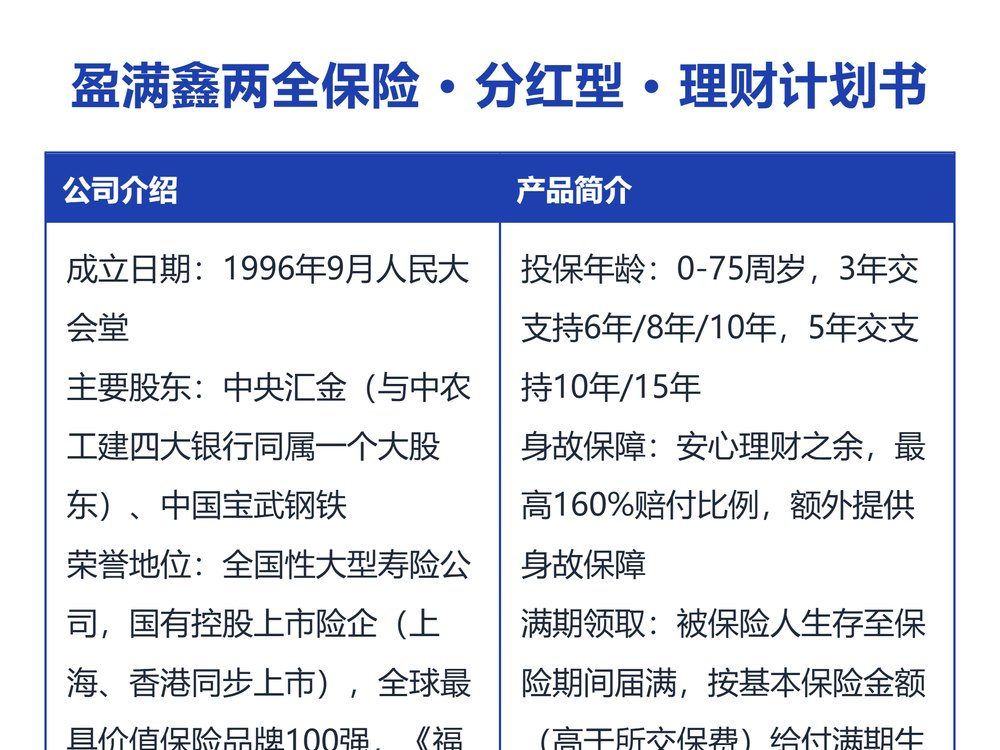
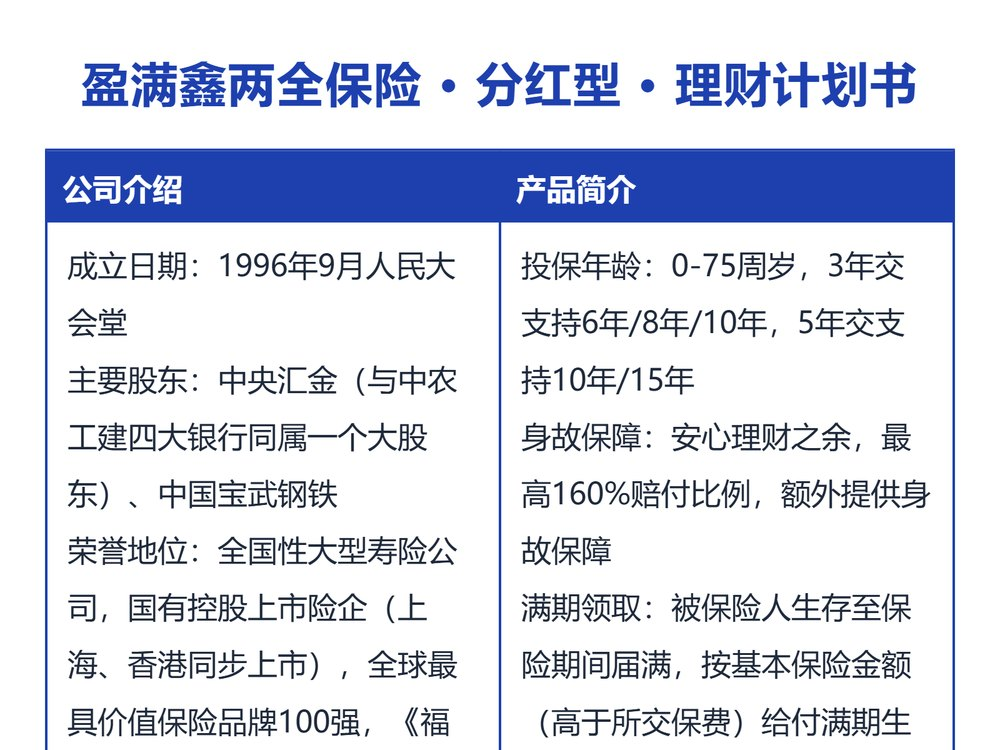
V3.0 盈满鑫导出图回调：宽度改回800px/输出1600px，字号整体下调2px，避免表格数字换行

diff --git a/calculator-yingmanxin.html b/calculator-yingmanxin.html
@@ -154,39 +154,39 @@ body.capturing .table-scroll{overflow-x:visible !important;}
 .combo-hl .cv{color:var(--primary);font-weight:800;font-size:18px;}
 
 /* ============ 独立隐藏导出模板（高清 PNG，不直接截取网页）============ */
-#exportRoot{position:absolute;left:-9999px;top:0;width:900px;background:#fff;z-index:-1;pointer-events:none;}
-.exp-wrap{width:900px;box-sizing:border-box;background:#fff;color:#1E293B;font-family:"PingFang SC","Microsoft YaHei",sans-serif;padding:40px;line-height:1.55;}
-.exp-title{text-align:center;font-size:44px;font-weight:800;color:var(--primary);margin:0 0 28px;letter-spacing:1px;}
-.exp-row2{display:flex;border:2px solid var(--primary);margin-bottom:18px;box-sizing:border-box;}
-.exp-box{border:2px solid var(--primary);background:#fff;padding:16px 18px;margin-bottom:18px;box-sizing:border-box;}
+#exportRoot{position:absolute;left:-9999px;top:0;width:800px;background:#fff;z-index:-1;pointer-events:none;}
+.exp-wrap{width:800px;box-sizing:border-box;background:#fff;color:#1E293B;font-family:"PingFang SC","Microsoft YaHei",sans-serif;padding:36px;line-height:1.55;}
+.exp-title{text-align:center;font-size:38px;font-weight:800;color:var(--primary);margin:0 0 24px;letter-spacing:1px;}
+.exp-row2{display:flex;border:2px solid var(--primary);margin-bottom:16px;box-sizing:border-box;}
+.exp-box{border:2px solid var(--primary);background:#fff;padding:14px 16px;margin-bottom:16px;box-sizing:border-box;}
 .exp-row2 > .exp-box{flex:1;border:0;margin-bottom:0;}
 .exp-row2 > .exp-box:first-child{border-right:2px solid var(--primary);}
-.exp-h{background:var(--primary);color:#fff;font-size:26px;font-weight:700;padding:11px 14px;margin:-16px -18px 12px;box-sizing:border-box;}
-.exp-b{font-size:28px;line-height:1.9;color:#1E293B;}
-.exp-info{width:100%;border-collapse:collapse;table-layout:fixed;font-size:26px;border:2px solid var(--primary);box-sizing:border-box;}
-.exp-info th,.exp-info td{border:1px solid var(--primary);padding:8px 6px;text-align:center;box-sizing:border-box;font-weight:600;color:#1E293B;}
+.exp-h{background:var(--primary);color:#fff;font-size:24px;font-weight:700;padding:10px 12px;margin:-14px -16px 10px;box-sizing:border-box;}
+.exp-b{font-size:24px;line-height:1.9;color:#1E293B;}
+.exp-info{width:100%;border-collapse:collapse;table-layout:fixed;font-size:22px;border:2px solid var(--primary);box-sizing:border-box;}
+.exp-info th,.exp-info td{border:1px solid var(--primary);padding:7px 5px;text-align:center;box-sizing:border-box;font-weight:600;color:#1E293B;}
 .exp-info th{background:var(--primary-bg);color:var(--primary);font-weight:700;}
-.exp-stats{display:flex;gap:12px;margin-top:12px;flex-wrap:wrap;}
-.exp-stats span{background:var(--primary-bg);border:1px solid #BFDBFE;color:var(--primary);padding:8px 16px;font-weight:700;font-size:24px;border-radius:6px;}
-.exp-main,.exp-dep{width:100%;border-collapse:collapse;table-layout:fixed;font-size:28px;box-sizing:border-box;margin-top:2px;}
-.exp-main th,.exp-main td,.exp-dep th,.exp-dep td{border:1px solid var(--primary);padding:12px 5px;text-align:center;vertical-align:middle;box-sizing:border-box;font-weight:600;color:#1E293B;}
+.exp-stats{display:flex;gap:10px;margin-top:10px;flex-wrap:wrap;}
+.exp-stats span{background:var(--primary-bg);border:1px solid #BFDBFE;color:var(--primary);padding:7px 14px;font-weight:700;font-size:22px;border-radius:6px;}
+.exp-main,.exp-dep{width:100%;border-collapse:collapse;table-layout:fixed;font-size:24px;box-sizing:border-box;margin-top:2px;}
+.exp-main th,.exp-main td,.exp-dep th,.exp-dep td{border:1px solid var(--primary);padding:10px 4px;text-align:center;vertical-align:middle;box-sizing:border-box;font-weight:600;color:#1E293B;}
 .exp-main th,.exp-dep th{background:var(--primary);color:#fff;font-weight:700;}
 .exp-main thead th{line-height:1.25;}
 .exp-main tbody tr:nth-child(even){background:#F0F9FF;}
 .exp-main .exp-total{background:#DBEAFE;}
-.exp-main .exp-reserve{background:#DBEAFE;color:#475569;font-weight:800;text-align:center;vertical-align:middle;font-size:28px;letter-spacing:1px;}
-.exp-dep tfoot td{border:1px solid var(--primary);padding:8px 5px;box-sizing:border-box;}
+.exp-main .exp-reserve{background:#DBEAFE;color:#475569;font-weight:800;text-align:center;vertical-align:middle;font-size:24px;letter-spacing:1px;}
+.exp-dep tfoot td{border:1px solid var(--primary);padding:7px 4px;box-sizing:border-box;}
 .exp-dep .exp-foot-label{text-align:right;font-weight:700;background:var(--primary-bg);color:var(--primary);}
 .exp-dep .exp-foot-val{font-weight:800;color:var(--primary);}
-.exp-combo{width:100%;border-collapse:collapse;table-layout:fixed;font-size:26px;box-sizing:border-box;}
+.exp-combo{width:100%;border-collapse:collapse;table-layout:fixed;font-size:24px;box-sizing:border-box;}
 .exp-combo td{border:1px solid var(--primary);padding:6px 10px;box-sizing:border-box;width:25%;}
 .exp-combo .cl{background:var(--primary-bg);color:var(--primary);font-weight:700;}
 .exp-combo .cv{text-align:right;font-weight:700;color:#1E293B;}
 .exp-combo .hl{background:#DBEAFE;}
-.exp-combo .hl .cv{color:var(--primary);font-weight:800;font-size:21px;}
-.exp-note{margin-top:10px;padding:12px 14px;background:var(--primary-bg);border:1px solid #BFDBFE;border-radius:8px;font-size:22px;color:#334155;line-height:1.7;box-sizing:border-box;}
-.exp-foot{margin-top:18px;font-size:22px;color:#64748B;line-height:1.8;border-top:1px solid #E2E8F0;padding-top:10px;box-sizing:border-box;}
-.exp-foot2{margin-top:8px;font-size:22px;color:#64748B;text-align:center;letter-spacing:.5px;}
+.exp-combo .hl .cv{color:var(--primary);font-weight:800;font-size:19px;}
+.exp-note{margin-top:10px;padding:11px 12px;background:var(--primary-bg);border:1px solid #BFDBFE;border-radius:8px;font-size:20px;color:#334155;line-height:1.7;box-sizing:border-box;}
+.exp-foot{margin-top:16px;font-size:20px;color:#64748B;line-height:1.8;border-top:1px solid #E2E8F0;padding-top:10px;box-sizing:border-box;}
+.exp-foot2{margin-top:8px;font-size:20px;color:#64748B;text-align:center;letter-spacing:.5px;}
 </style>
 </head>
 <body>
@@ -803,7 +803,7 @@ async function downloadImage(){
       ctx.save();
       ctx.setTransform(1, 0, 0, 1, 0, 0);
       ctx.fillStyle = '#1E40AF';
-      ctx.font = `700 ${28 * scaleY}px Arial, "Microsoft YaHei", sans-serif`;
+      ctx.font = `700 ${24 * scaleY}px Arial, "Microsoft YaHei", sans-serif`;
       ctx.textAlign = 'center';
       ctx.textBaseline = 'middle';
       ctx.fillText(
